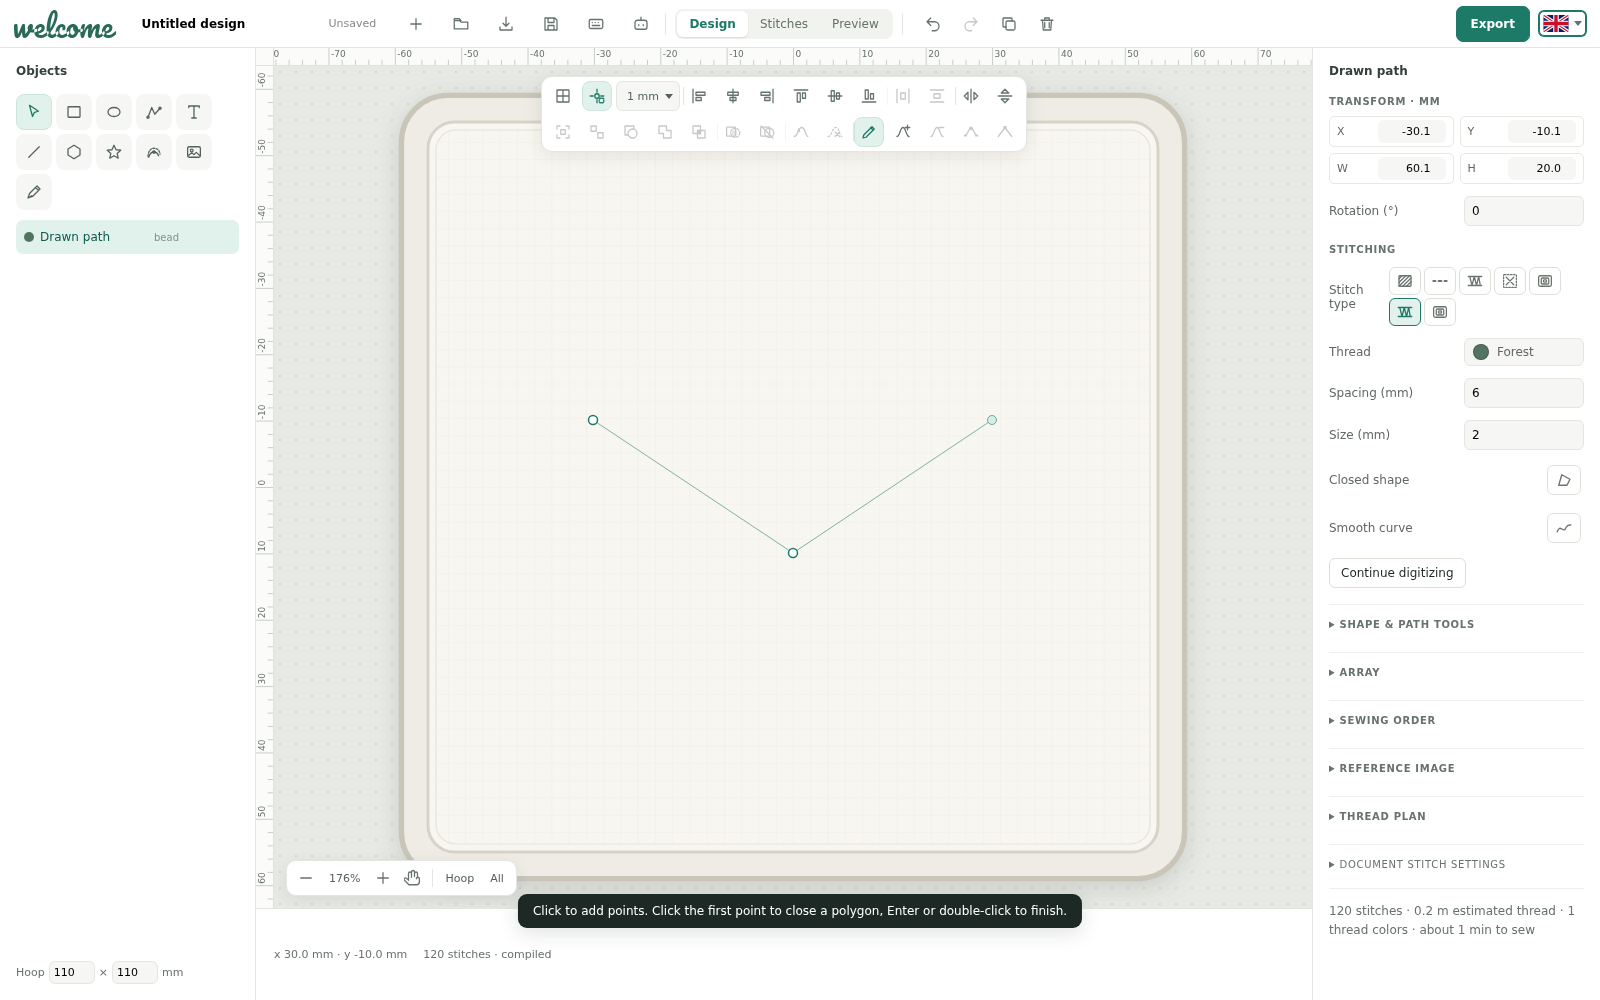
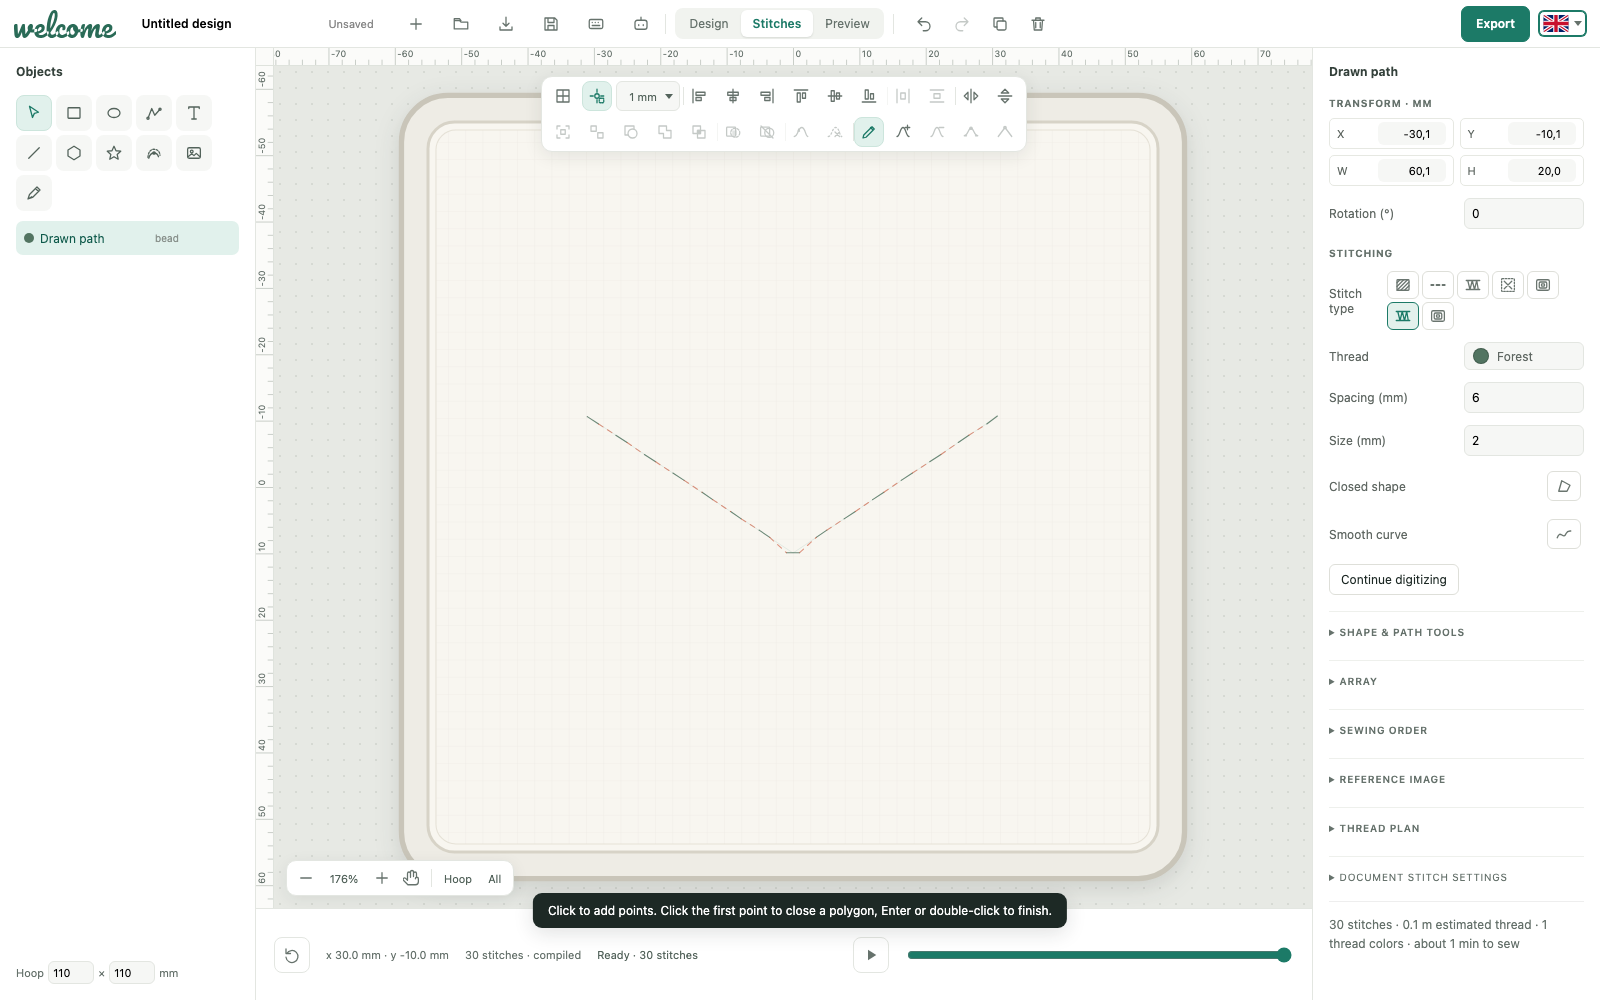
Sew each bead once instead of three identical passes
beadRuns pushed the same back-and-forth segment three times at every point,
so each bead was sewn three times over one line. A 40 mm bead path compiled to
64 stitches; it now compiles to 16, with the same bead positions, length and
spacing. Documents that already contain beads will compile to fewer stitches.

Tests: npm run test:engine (127/127), CI=1 npm run test:e2e (104/104),
npm run test:mcp (pass). Screenshot: design/progress/features/beads.png, now in
the Stitches view (the bead case used to stay in Design view).

diff --git a/src/engine.js b/src/engine.js
@@ -595,8 +595,8 @@ function motifFillRuns(rings,spacing,radius=.8,warp='none'){const inside=makeIns
 // Sequins: a centre stitch with a fixing loop around it, every few mm along the path.
 // Twin sequins: two side by side across the path, one either side of the centre line, centres a sequin's width apart so they touch.
 function sequinRuns(line,spacing=8,radius=1.5,twin=false){const pts=sampleRun(line,spacing),dirs=pathDirs(pts),out=[];pts.forEach((p,i)=>{const [ux,uy]=dirs[i],centres=twin?[[p[0]-uy*radius,p[1]+ux*radius],[p[0]+uy*radius,p[1]-ux*radius]]:[p];for(const c of centres)out.push({pts:[c,[c[0]+.01,c[1]]],jump:false},{pts:Array.from({length:13},(_,k)=>{const t=k/12*Math.PI*2;return [c[0]+Math.cos(t)*radius,c[1]+Math.sin(t)*radius];}),jump:false});});return out;}
-// Beads: short passes back and forth across the path at each point, the way beads are sewn on.
-function beadRuns(line,spacing=6,length=2){const pts=sampleRun(line,spacing),out=[];pts.forEach((p,i)=>{const q=pts[Math.min(i+1,pts.length-1)],r=pts[Math.max(i-1,0)],dx=q[0]-r[0],dy=q[1]-r[1],l=Math.hypot(dx,dy)||1,ux=dx/l*length/2,uy=dy/l*length/2;for(let k=0;k<3;k++)out.push({pts:[[p[0]-ux,p[1]-uy],[p[0]+ux,p[1]+uy]],jump:false});});return out;}
+// Beads: one short pass across the path at each point, the way a bead is sewn on (a pass repeated over the same line adds stitches, not beads).
+function beadRuns(line,spacing=6,length=2){const pts=sampleRun(line,spacing),out=[];pts.forEach((p,i)=>{const q=pts[Math.min(i+1,pts.length-1)],r=pts[Math.max(i-1,0)],dx=q[0]-r[0],dy=q[1]-r[1],l=Math.hypot(dx,dy)||1,ux=dx/l*length/2,uy=dy/l*length/2;out.push({pts:[[p[0]-ux,p[1]-uy],[p[0]+ux,p[1]+uy]],jump:false});});return out;}
 // Bling: a stone at each point, a centre stitch with two concentric fixing rings (round, or square of the same width: size is the stone's width).
 function blingRuns(line,spacing=8,size=4,shape='round'){const ring=(p,r)=>({pts:Array.from({length:13},(_,k)=>{const t=k/12*Math.PI*2;return [p[0]+Math.cos(t)*r,p[1]+Math.sin(t)*r];}),jump:false});const square=(p,s)=>{const h=s/2;return {pts:[[p[0]-h,p[1]-h],[p[0]+h,p[1]-h],[p[0]+h,p[1]+h],[p[0]-h,p[1]+h],[p[0]-h,p[1]-h]],jump:false};};const oval=(p,[ux,uy],s)=>({pts:Array.from({length:13},(_,k)=>{const t=k/12*Math.PI*2,a=Math.cos(t)*s/2,b=Math.sin(t)*s/3;return [p[0]+a*ux-b*uy,p[1]+a*uy+b*ux];}),jump:false});const hex=(p,s)=>({pts:Array.from({length:7},(_,k)=>{const t=k/6*Math.PI*2;return [p[0]+Math.cos(t)*s/2,p[1]+Math.sin(t)*s/2];}),jump:false});const star=(p,s)=>({pts:Array.from({length:11},(_,k)=>{const t=k/10*Math.PI*2,R=k%2?s/4:s/2;return [p[0]+Math.cos(t)*R,p[1]+Math.sin(t)*R];}),jump:false});const pts=sampleRun(line,spacing),dirs=pathDirs(pts);return pts.flatMap((p,i)=>[{pts:[p,[p[0]+.01,p[1]]],jump:false},...(shape==='square'?[square(p,size),square(p,size*2/3)]:shape==='oval'?[oval(p,dirs[i],size),oval(p,dirs[i],size*2/3)]:shape==='hexagon'?[hex(p,size),hex(p,size*2/3)]:shape==='star'?[star(p,size),star(p,size*2/3)]:[ring(p,size/2),ring(p,size/3)])]);}
 // Bar tack across the end of a buttonhole: a short zigzag between the two rails, stepping outwards from the column.

diff --git a/test/engine.test.js b/test/engine.test.js
@@ -799,12 +799,13 @@ test('sequins sew a centre stitch with a fixing loop every few mm',()=>{
  assert.ok(plan.count>20,'sequins are sewn ('+plan.count+')');
 });
 
-test('beads sew short passes across the path at each point',()=>{
+test('beads sew one short pass across the path at each point',()=>{
  const doc=initialDocument();doc.objects=[];
  applyOperations(doc,[{op:'add_path',id:'b',x:0,y:0,points:[[-20,0],[20,0]]},{op:'set_object',id:'b',stitch:'bead'}]);
  validateDocument(doc);
  const plan=compile(doc);assert.deepEqual(plan.errors,[]);
- assert.ok(plan.count>20,'beads are sewn ('+plan.count+')');
+ // A 40 mm path with beads every 6 mm sews one short pass per bead (about 16 stitches with travel). Three identical passes sewed 64.
+ assert.ok(plan.count>=10&&plan.count<=30,'each bead is sewn once ('+plan.count+' stitches)');
 });
 
 test('bling sews a stone with a centre stitch and two fixing rings',()=>{

diff --git a/docs/IMPLEMENTATION_STATUS.md b/docs/IMPLEMENTATION_STATUS.md
@@ -502,3 +502,10 @@ Based on direct feedback that editing felt far from a vector program:
 - Sequins have a Twin sequins option (`sequinTwin: true`, a checkbox shown for sequins only, also settable over MCP). Each point gets two sequins side by side across the path, one either side of the centre line, with centres a sequin's width apart so they touch. The spacing, size and fixing loop are the same as for a single sequin.
 - Covered by an engine test (a single row is 3 mm across, the twins 6 mm across a horizontal path, and twins sew about twice the stitches; a non-boolean `sequinTwin` is rejected) and by the e2e sequin test, which ticks the box and checks that the stitch count roughly doubles. Screenshot: `design/progress/features/sequin-twin.png`.
 - Limits: the pair is across the path, not along it; there is no per-sequin offset or twin spacing control; sequins are still placed one per point along the path.
+
+## 2026-10-24 beads sewn once
+
+- Each bead is one short pass across the path at its point. `beadRuns` used to push the same back-and-forth segment three times, so every bead was sewn three times over one line. A 40 mm bead path now compiles to 16 stitches; it was 64. Bead positions, length and spacing are unchanged.
+- Documents that already contain beads will compile to fewer stitches and a different machine file after this change. Nothing else in the stitch model moves.
+- Covered by the engine test (a 40 mm bead path sews 10 to 30 stitches, one pass per bead) and the existing e2e bead test. Screenshot: `design/progress/features/beads.png`.
+- Limits: a bead is still one pass with no bead shape or multi-pass option. The fix only removes repeated stitches; it does not add a dispensing or bead-shape control.
